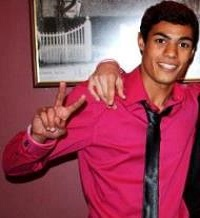
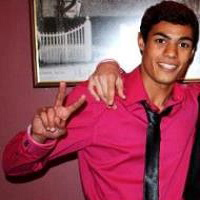
rezise image and pop-up contact

diff --git a/www/design_3/index.html b/www/design_3/index.html
@@ -32,7 +32,7 @@
 
 				<!-- Partie droite -->
 				<ul class="right">
-					<li class="active"><a href="#">Nous contacter</a></li>
+					<li class="active"><a href="#" data-reveal-id="contact">Contactez-nous</a></li>
 				</ul>
 			</section>
 		</nav>
@@ -102,7 +102,7 @@
 			proident, sunt in culpa qui officia deserunt mollit anim id est laborum.</p>
 		</div>
 
-		<div class="small-12 medium-2 columns">
+		<div class="small-12 medium-2 columns text-center">
 			<img src="img/eie.png" alt="Logo Emagine Studio">
 		</div>
 	</div>
@@ -130,11 +130,11 @@
 	<div class="row">
 		<!-- Thibault -->
 		<div class="small-12 medium-6 large-3 columns">
-				<p>
+				<p class="text-center">
 					<img class="th" src="img/profil/thibault.jpg" alt="Thibault (aka) Dethi">
 				</p>
 
-				<p>Lorem ipsum dolor sit amet, consectetur adipisicing elit, sed do eiusmod
+				<p class="text-justify">Lorem ipsum dolor sit amet, consectetur adipisicing elit, sed do eiusmod
 				tempor incididunt ut labore et dolore magna aliqua. Ut enim ad minim veniam,
 				quis nostrud exercitation ullamco laboris nisi ut aliquip ex ea commodo
 				consequat. Duis aute irure dolor in reprehenderit in voluptate velit esse
@@ -144,11 +144,11 @@
 
 		<!-- Anthony -->
 		<div class="small-12 medium-6 large-3 columns">
-				<p>
+				<p class="text-center">
 					<img class="th" src="img/profil/anthony.jpg" alt="Anthony (aka) AnthonySG">
 				</p>
 
-				<p>Lorem ipsum dolor sit amet, consectetur adipisicing elit, sed do eiusmod
+				<p class="text-justify">Lorem ipsum dolor sit amet, consectetur adipisicing elit, sed do eiusmod
 				tempor incididunt ut labore et dolore magna aliqua. Ut enim ad minim veniam,
 				quis nostrud exercitation ullamco laboris nisi ut aliquip ex ea commodo
 				consequat. Duis aute irure dolor in reprehenderit in voluptate velit esse
@@ -158,11 +158,11 @@
 
 		<!-- Rémy -->
 		<div class="small-12 medium-6 large-3 columns">
-				<p>
+				<p class="text-center">
 					<img class="th" src="img/profil/remy.jpg" alt="Rémy (aka) Shadows">
 				</p>
 
-				<p>Lorem ipsum dolor sit amet, consectetur adipisicing elit, sed do eiusmod
+				<p class="text-justify">Lorem ipsum dolor sit amet, consectetur adipisicing elit, sed do eiusmod
 				tempor incididunt ut labore et dolore magna aliqua. Ut enim ad minim veniam,
 				quis nostrud exercitation ullamco laboris nisi ut aliquip ex ea commodo
 				consequat. Duis aute irure dolor in reprehenderit in voluptate velit esse
@@ -172,11 +172,11 @@
 
 		<!-- Marc -->
 		<div class="small-12 medium-6 large-3 columns">
-				<p>
+				<p class="text-center">
 					<img class="th" src="img/profil/marc.jpg" alt="Marc (aka) Leshlague">
 				</p>
 
-				<p>Lorem ipsum dolor sit amet, consectetur adipisicing elit, sed do eiusmod
+				<p class="text-justify">Lorem ipsum dolor sit amet, consectetur adipisicing elit, sed do eiusmod
 				tempor incididunt ut labore et dolore magna aliqua. Ut enim ad minim veniam,
 				quis nostrud exercitation ullamco laboris nisi ut aliquip ex ea commodo
 				consequat. Duis aute irure dolor in reprehenderit in voluptate velit esse
@@ -204,8 +204,22 @@
 		</div>
 	</div>
 
+	<!-- Pop-up contact -->
+	<div id="contact" class="reveal-modal small" data-reveal>
+		<h2>Contactez-nous</h2>
+
+		<p>Vous pouvez nous <a href="mailto:deutsc_t@epita.fr?subject=[TROMA]">envoyer un email</a>, ou alors discuter avec l'équipe sur notre page Facebook ou notre compte Twitter.</p>
+
+		<p class="text-center">
+			<a href="https://www.facebook.com/EmagineStudio2018" class="facebook"></a>
+			<a href="https://twitter.com/Emagine_Studio" class="twitter"></a>
+		</p>
+
+		<a class="close-reveal-modal">&#215;</a>
+	</div>
+
 	<!-- Script JS -->
-	<script src="bower_components/jquery/jquery.js"></script>
+	<script src="bower_components/jquery/dist/jquery.min.js"></script>
 	<script src="bower_components/foundation/js/foundation.min.js"></script>
 	<script src="js/app.js"></script>
 </body>

diff --git a/www/design_3/stylesheets/app.css b/www/design_3/stylesheets/app.css
@@ -267,7 +267,7 @@ select {
   background: #f2f2f2;
   margin-top: 50px;
   margin-bottom: 0px;
-  background: #616161 url("../img/shadows-footer.png") 0 0 repeat-x;
+  background: #666666 url("../img/shadows-footer.png") 0 0 repeat-x;
 }
 /* line 48, ../bower_components/foundation/scss/foundation/components/_panels.scss */
 .footer > :first-child {

diff --git a/www/design_3/scss/_settings.scss b/www/design_3/scss/_settings.scss
@@ -1236,7 +1236,7 @@ $icon-offset: -1 * $icon-size;
     );
     margin-top: 50px;
     margin-bottom:0px;
-    background: lighten(black, 38%) url("../img/shadows-footer.png") 0 0 repeat-x;
+    background: lighten(black, 40%) url("../img/shadows-footer.png") 0 0 repeat-x;
 }
 
 .copyright {
